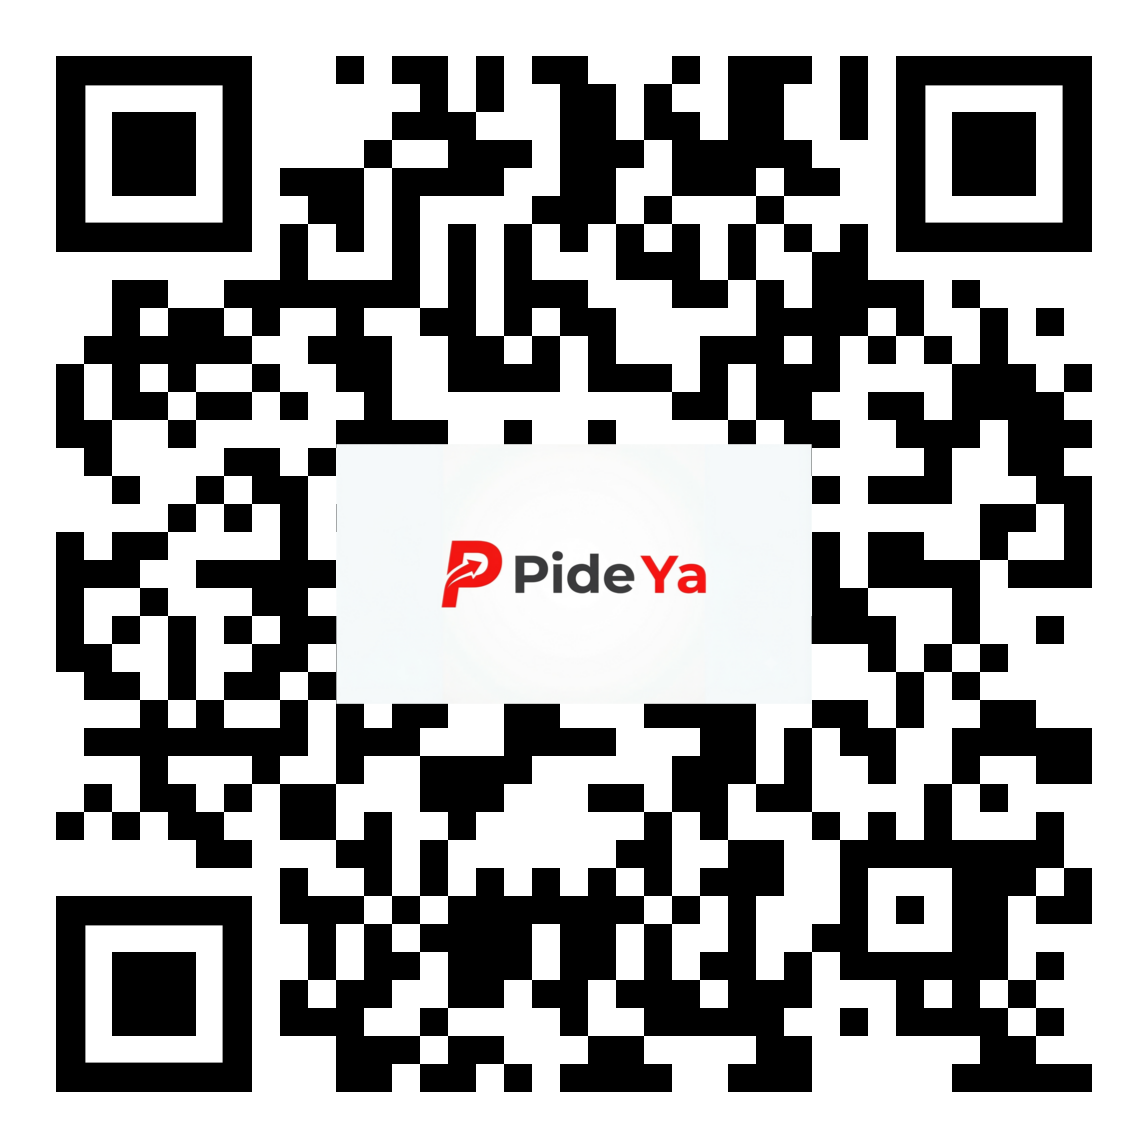
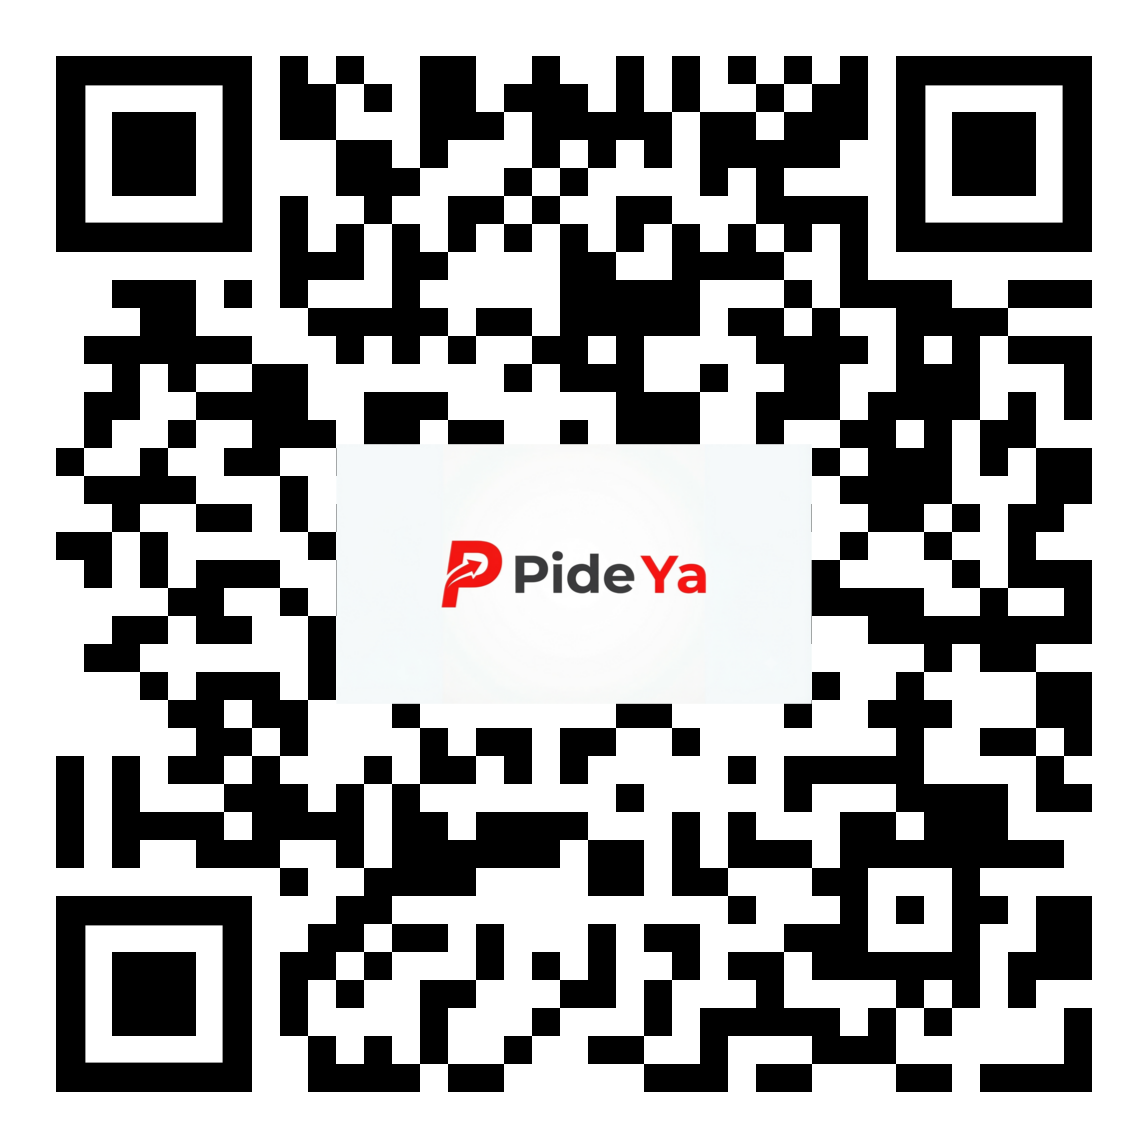
Add files via upload

Changed region(s): [[0.0305, 0.0305, 0.9756, 0.9756]]

diff --git a/index.html b/index.html
@@ -6,13 +6,13 @@
     
     <!-- Configuración Avanzada Open Graph (OG Share) - Conecta Card Oficial -->
     <meta property="og:type" content="website" />
-    <meta property="og:url" content="https://demo-carnitas.pideya.contact/" />
+    <meta property="og:url" content="https://demo-belleza.pideya.contact/" />
     <meta property="og:title" content="SALON GENTE BELLA | PIDE YA" />
-    <meta property="og:description" content="Disfruta de las mejores carnitas estilo tradicional, doraditas y jugosas. Explora nuestro menú exclusivo y visítanos con tu CONECTA CARD." />
+    <meta property="og:description" content="Disfruta de la mejor experiencia y servicios exclusivos de belleza en SALON GENTE BELLA. Explora nuestros servicios y agenda tu cita con tu CONECTA CARD." />
     
     <!-- Infraestructura Multimedia Premium de Imagen de Portada -->
-    <meta property="og:image" content="https://demo-carnitas.pideya.contact/og_carnitas.jpg" />
-    <meta property="og:image:secure_url" content="https://demo-carnitas.pideya.contact/og_carnitas.jpg" />
+    <meta property="og:image" content="https://demo-belleza.pideya.contact/og_belleza.jpg" />
+    <meta property="og:image:secure_url" content="https://demo-belleza.pideya.contact/og_belleza.jpg" />
     <meta property="og:image:type" content="image/jpeg" />
     <meta property="og:image:width" content="1080" />
     <meta property="og:image:height" content="1920" />
